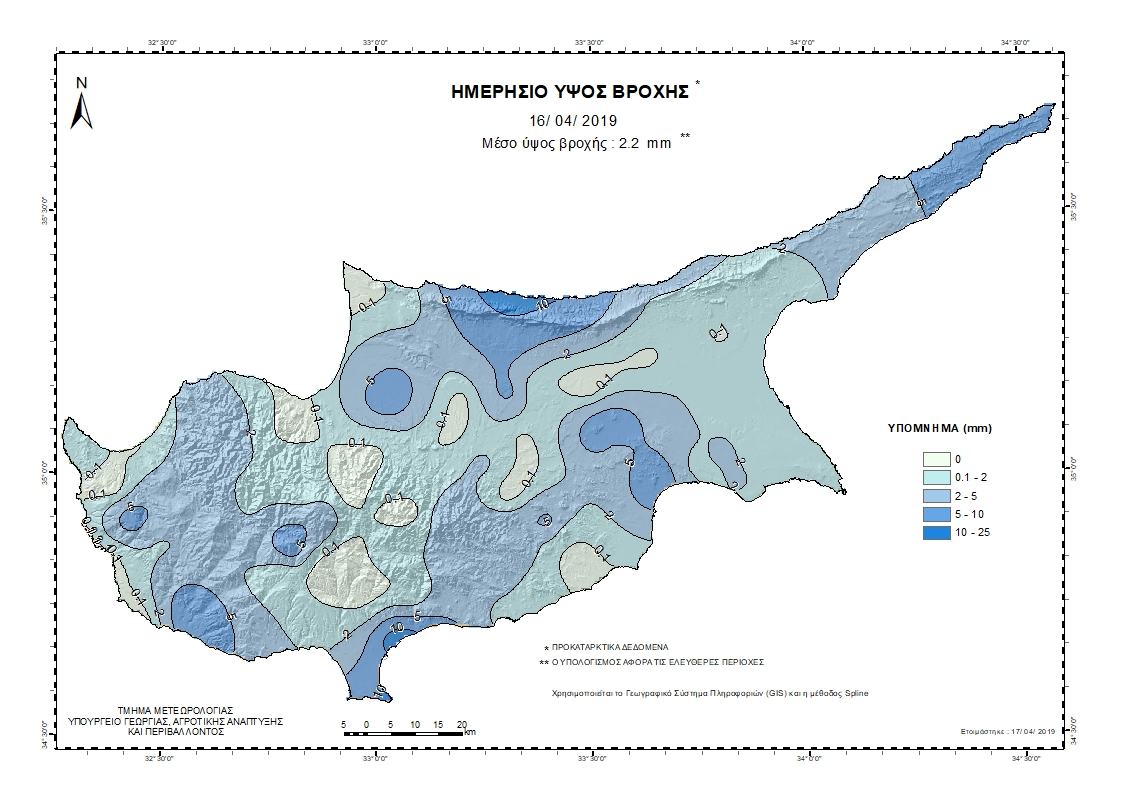
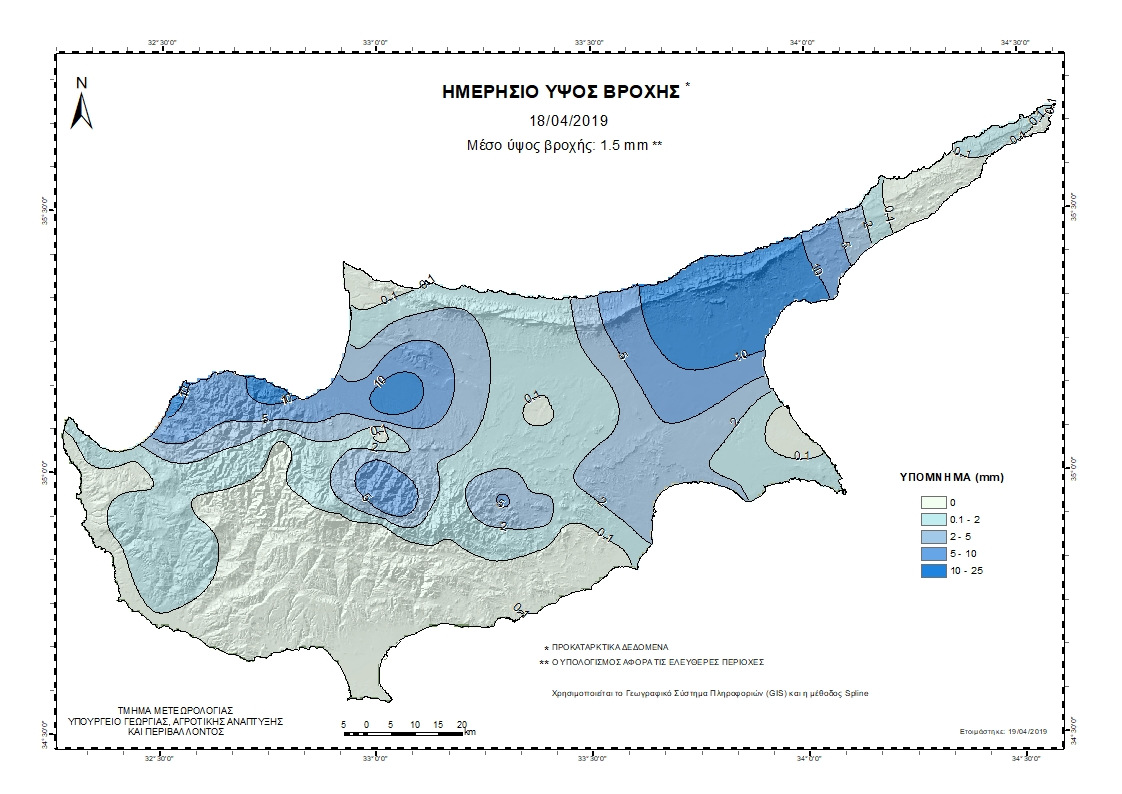
update

diff --git a/weather.html b/weather.html
@@ -1,1 +1,1 @@
-<b>Χάρτης Βροχόπτωσης για τις 17/04/2019</b><p><p>[Πατήστε δεξί κλικ και μετά "Open link in new tab"]: <a href="http://www.moa.gov.cy/moa/ms/ms.nsf/all/9945FFF108881F35C2256FE1003645DC/$file/DailyDeltioRainUntil_18042019_GR.pdf?openelement">ΒΡΟΧΟΠΤΩΣΗ (σε mm)</a></p>
+<b>Χάρτης Βροχόπτωσης για τις 18/04/2019</b><p><p>[Πατήστε δεξί κλικ και μετά "Open link in new tab"]: <a href="http://www.moa.gov.cy/moa/ms/ms.nsf/all/9945FFF108881F35C2256FE1003645DC/$file/DailyDeltioRainUntil_19042019_GR.pdf?openelement">ΒΡΟΧΟΠΤΩΣΗ (σε mm)</a></p>
